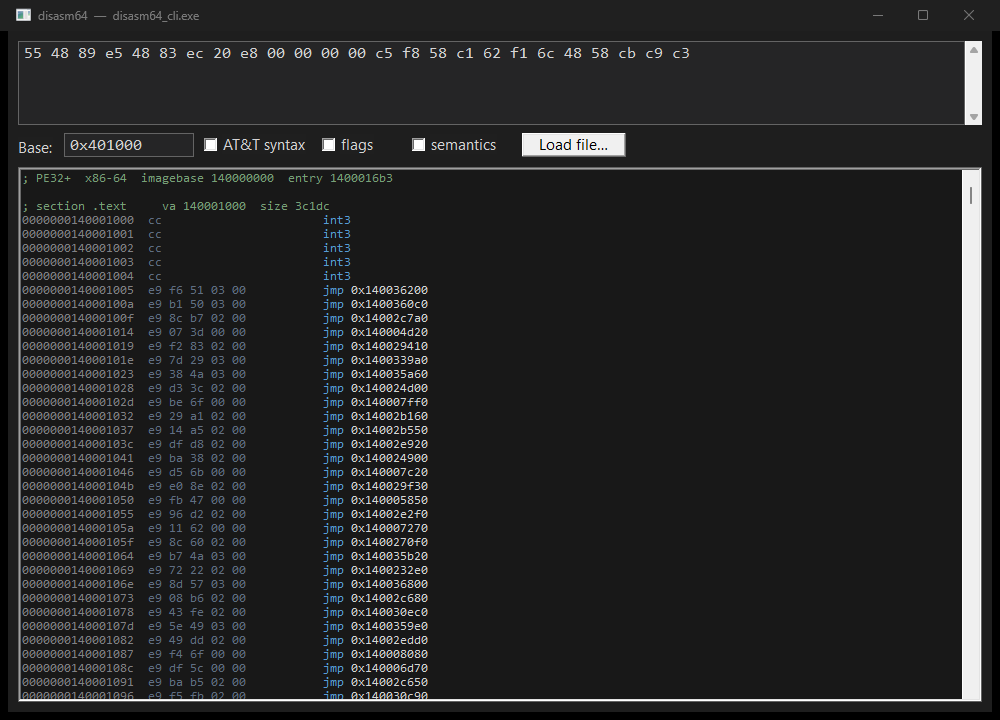
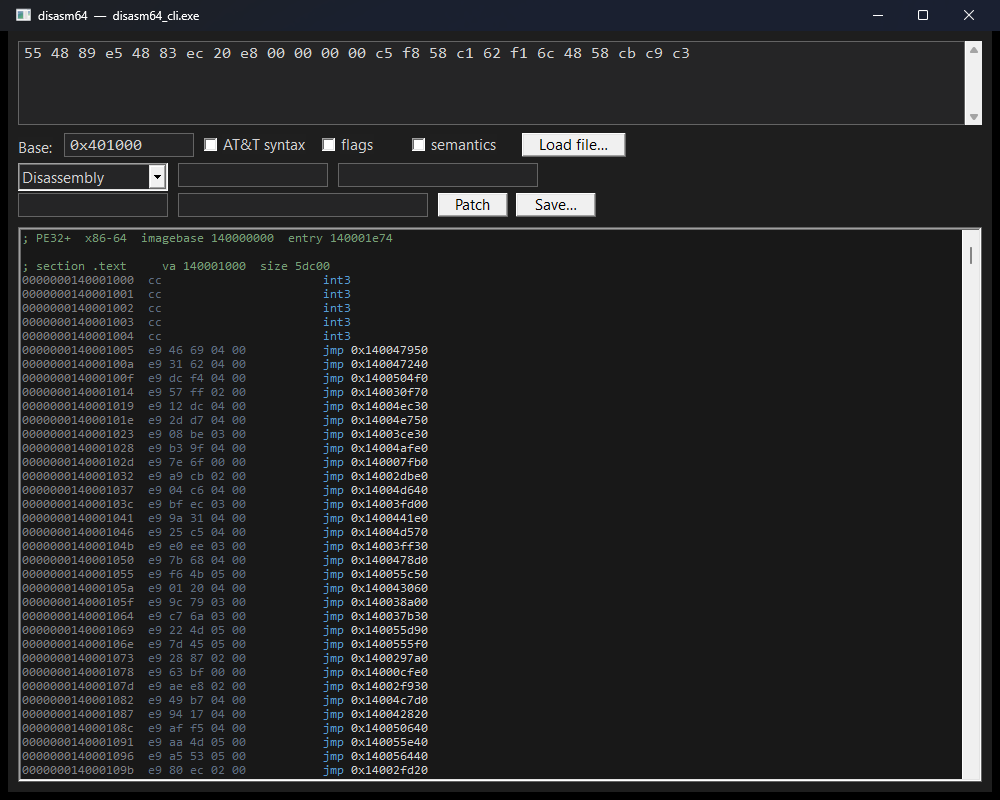
patch: overwrite bytes at a VA and save the modified file (GUI + CLI)
applyPatch() writes bytes at a virtual address in the loaded image; the GUI
adds a patch-VA / hex-bytes pair with Patch and Save... buttons, the CLI adds
--patch VA:BYTES and --save out. test_image covers the patch path; verified
end-to-end (patch an entry to int3, save, reload, re-disassemble).

diff --git a/gui/disasm64_gui.cpp b/gui/disasm64_gui.cpp
@@ -26,10 +26,12 @@ using namespace disasm64;
 
 namespace {
 
-enum { ID_HEX = 101, ID_BASE, ID_ATT, ID_FLAGS, ID_SEM, ID_OUT, ID_LOAD, ID_VIEW, ID_GOTO, ID_FIND };
+enum { ID_HEX = 101, ID_BASE, ID_ATT, ID_FLAGS, ID_SEM, ID_OUT, ID_LOAD, ID_VIEW, ID_GOTO, ID_FIND,
+       ID_PATCHVA, ID_PATCHBYTES, ID_PATCH, ID_SAVE };
 enum View { V_DISASM = 0, V_IMPORTS, V_EXPORTS, V_STRINGS, V_SECTIONS, V_CFG };
 
 HWND g_hex, g_base, g_att, g_flags, g_sem, g_out, g_load, g_view, g_goto, g_find;
+HWND g_patchva, g_patchbytes, g_patch, g_save;
 HFONT g_mono, g_ui;
 LoadedImage g_image;          // last loaded file
 bool g_fileMode = false;      // disassemble g_image instead of the hex box
@@ -322,6 +324,39 @@ void loadFile(HWND hwnd) {
     if (GetOpenFileNameW(&ofn)) loadPath(hwnd, path);
 }
 
+void doPatch() {
+    if (!g_fileMode) return;
+    uint64_t va = wcstoull(getText(g_patchva).c_str(), nullptr, 16);
+    std::vector<uint8_t> b;
+    int hi = -1;
+    for (wchar_t c : getText(g_patchbytes)) {
+        int v = hexv((int)c);
+        if (v < 0) { hi = -1; continue; }
+        if (hi < 0) hi = v; else { b.push_back(uint8_t(hi * 16 + v)); hi = -1; }
+    }
+    if (b.empty()) return;
+    if (applyPatch(g_image, va, b.data(), b.size())) refresh();
+    else MessageBeep(MB_ICONWARNING);
+}
+
+void doSave(HWND hwnd) {
+    if (g_image.file.empty()) return;
+    wchar_t path[MAX_PATH] = {};
+    OPENFILENAMEW ofn = {};
+    ofn.lStructSize = sizeof ofn;
+    ofn.hwndOwner = hwnd;
+    ofn.lpstrFilter = L"All files\0*.*\0";
+    ofn.lpstrFile = path;
+    ofn.nMaxFile = MAX_PATH;
+    ofn.Flags = OFN_OVERWRITEPROMPT;
+    if (!GetSaveFileNameW(&ofn)) return;
+    HANDLE h = CreateFileW(path, GENERIC_WRITE, 0, nullptr, CREATE_ALWAYS, FILE_ATTRIBUTE_NORMAL, nullptr);
+    if (h == INVALID_HANDLE_VALUE) return;
+    DWORD wr = 0;
+    WriteFile(h, g_image.file.data(), DWORD(g_image.file.size()), &wr, nullptr);
+    CloseHandle(h);
+}
+
 HWND mk(const wchar_t* cls, const wchar_t* text, DWORD style, HWND parent, int id, HFONT font) {
     HWND h = CreateWindowExW(0, cls, text, WS_CHILD | WS_VISIBLE | style, 0, 0, 0, 0,
                              parent, (HMENU)(INT_PTR)id, GetModuleHandleW(nullptr), nullptr);
@@ -345,7 +380,12 @@ void layout(HWND hwnd) {
     MoveWindow(g_view, x3, y3, 150, 160, TRUE); x3 += 160;
     MoveWindow(g_goto, x3, y3, 150, ctlH, TRUE); x3 += 160;
     MoveWindow(g_find, x3, y3, 200, ctlH, TRUE);
-    int outY = y3 + ctlH + 10;
+    int y4 = y3 + ctlH + 6, x4 = pad;
+    MoveWindow(g_patchva, x4, y4, 150, ctlH, TRUE); x4 += 160;
+    MoveWindow(g_patchbytes, x4, y4, 250, ctlH, TRUE); x4 += 260;
+    MoveWindow(g_patch, x4, y4, 70, ctlH, TRUE); x4 += 78;
+    MoveWindow(g_save, x4, y4, 80, ctlH, TRUE);
+    int outY = y4 + ctlH + 10;
     MoveWindow(g_out, pad, outY, W - 2 * pad, H - outY - pad, TRUE);
 }
 
@@ -374,6 +414,12 @@ LRESULT CALLBACK WndProc(HWND hwnd, UINT msg, WPARAM wp, LPARAM lp) {
             g_find  = mk(L"EDIT", L"", ES_AUTOHSCROLL | WS_BORDER, hwnd, ID_FIND, g_mono);
             SendMessageW(g_goto, EM_SETCUEBANNER, TRUE, (LPARAM)L"goto va");
             SendMessageW(g_find, EM_SETCUEBANNER, TRUE, (LPARAM)L"find");
+            g_patchva    = mk(L"EDIT", L"", ES_AUTOHSCROLL | WS_BORDER, hwnd, ID_PATCHVA, g_mono);
+            g_patchbytes = mk(L"EDIT", L"", ES_AUTOHSCROLL | WS_BORDER, hwnd, ID_PATCHBYTES, g_mono);
+            g_patch      = mk(L"BUTTON", L"Patch", BS_PUSHBUTTON, hwnd, ID_PATCH, g_ui);
+            g_save       = mk(L"BUTTON", L"Save\x2026", BS_PUSHBUTTON, hwnd, ID_SAVE, g_ui);
+            SendMessageW(g_patchva, EM_SETCUEBANNER, TRUE, (LPARAM)L"patch va");
+            SendMessageW(g_patchbytes, EM_SETCUEBANNER, TRUE, (LPARAM)L"hex bytes");
             g_out   = mk(MSFTEDIT_CLASS, L"", ES_MULTILINE | ES_READONLY | ES_AUTOVSCROLL | WS_VSCROLL | WS_BORDER, hwnd, ID_OUT, g_mono);
             SendMessageW(g_out, EM_SETBKGNDCOLOR, 0, (LPARAM)C_OUTBG);
             SendMessageW(g_out, EM_EXLIMITTEXT, 0, 64 << 20);
@@ -397,6 +443,8 @@ LRESULT CALLBACK WndProc(HWND hwnd, UINT msg, WPARAM wp, LPARAM lp) {
             else if (LOWORD(wp) == ID_VIEW && HIWORD(wp) == CBN_SELCHANGE) refresh();
             else if (LOWORD(wp) == ID_GOTO && HIWORD(wp) == EN_CHANGE) gotoAddr();
             else if (LOWORD(wp) == ID_FIND && HIWORD(wp) == EN_CHANGE) findOut(getText(g_find), 0);
+            else if (LOWORD(wp) == ID_PATCH && HIWORD(wp) == BN_CLICKED) doPatch();
+            else if (LOWORD(wp) == ID_SAVE && HIWORD(wp) == BN_CLICKED) doSave(hwnd);
             return 0;
         case WM_CTLCOLOREDIT: {
             HDC dc = (HDC)wp; SetTextColor(dc, C_TEXT); SetBkColor(dc, C_INPUT);
@@ -437,7 +485,7 @@ int WINAPI wWinMain(HINSTANCE hInst, HINSTANCE, LPWSTR lpCmdLine, int nShow) {
     RegisterClassExW(&wc);
 
     HWND hwnd = CreateWindowExW(0, wc.lpszClassName, L"disasm64",
-                                WS_OVERLAPPEDWINDOW, CW_USEDEFAULT, CW_USEDEFAULT, 1000, 720,
+                                WS_OVERLAPPEDWINDOW, CW_USEDEFAULT, CW_USEDEFAULT, 1000, 800,
                                 nullptr, nullptr, hInst, nullptr);
     ShowWindow(hwnd, nShow);
     UpdateWindow(hwnd);

diff --git a/tools/disasm_cli.cpp b/tools/disasm_cli.cpp
@@ -56,11 +56,15 @@ int main(int argc, char** argv) {
     bool doImports = false, doExports = false, doStrings = false, doCfg = false;
     const char* filePath = nullptr;
     const char* pattern = nullptr;
+    const char* patchSpec = nullptr;
+    const char* savePath = nullptr;
     std::vector<uint8_t> code;
     for (int i = 1; i < argc; ++i) {
         if (!std::strcmp(argv[i], "--base") && i + 1 < argc) { base = std::strtoull(argv[++i], nullptr, 0); continue; }
         if (!std::strcmp(argv[i], "--file") && i + 1 < argc) { filePath = argv[++i]; continue; }
         if (!std::strcmp(argv[i], "--pattern") && i + 1 < argc) { pattern = argv[++i]; continue; }
+        if (!std::strcmp(argv[i], "--patch") && i + 1 < argc) { patchSpec = argv[++i]; continue; }
+        if (!std::strcmp(argv[i], "--save") && i + 1 < argc) { savePath = argv[++i]; continue; }
         if (!std::strcmp(argv[i], "--imports")) { doImports = true; continue; }
         if (!std::strcmp(argv[i], "--exports")) { doExports = true; continue; }
         if (!std::strcmp(argv[i], "--strings")) { doStrings = true; continue; }
@@ -79,6 +83,21 @@ int main(int argc, char** argv) {
         if (!data.empty()) { size_t got = std::fread(data.data(), 1, data.size(), f); data.resize(got); }
         std::fclose(f);
         LoadedImage im = loadImage(std::move(data));
+        if (patchSpec) {   // "va:hexbytes"
+            uint64_t va = std::strtoull(patchSpec, nullptr, 16);
+            const char* hx = std::strchr(patchSpec, ':');
+            std::vector<uint8_t> pb;
+            if (hx) { int hi = -1; for (const char* p = hx + 1; *p; ++p) {
+                int v = (*p >= '0' && *p <= '9') ? *p - '0' : (*p | 0x20) >= 'a' && (*p | 0x20) <= 'f' ? (*p | 0x20) - 'a' + 10 : -1;
+                if (v < 0) { hi = -1; continue; } if (hi < 0) hi = v; else { pb.push_back(uint8_t(hi * 16 + v)); hi = -1; } } }
+            std::printf("; patch %llx (%zu bytes): %s\n", (unsigned long long)va, pb.size(),
+                        applyPatch(im, va, pb.data(), pb.size()) ? "ok" : "out of range");
+        }
+        if (savePath) {
+            FILE* o = std::fopen(savePath, "wb");
+            if (o) { std::fwrite(im.file.data(), 1, im.file.size(), o); std::fclose(o); std::printf("; saved %s\n", savePath); }
+            return 0;
+        }
         std::printf("; %s  %s  imagebase %llx  entry %llx\n", im.format.c_str(),
                     im.machine.empty() ? "?" : im.machine.c_str(),
                     (unsigned long long)im.imageBase, (unsigned long long)im.entry);

diff --git a/single_include/disasm64.h b/single_include/disasm64.h
@@ -293,6 +293,10 @@ std::vector<FoundString> findStrings(const LoadedImage& im, size_t minLen = 4);
 // e.g. "48 8B ?? C0". Returns every match's address.
 std::vector<Match> patternSearch(const LoadedImage& im, const std::string& pattern);
 
+// Overwrite bytes at a virtual address in the image's file buffer (a raw patch). Returns
+// false if the address or range is not backed by file data. Save im.file to persist it.
+bool applyPatch(LoadedImage& im, uint64_t va, const uint8_t* bytes, size_t n);
+
 } // namespace disasm64
 #include <cstdint>
 #include <cstddef>
@@ -2663,6 +2667,13 @@ std::vector<Match> patternSearch(const LoadedImage& im, const std::string& patte
         }
     }
     return out;
+}
+
+bool applyPatch(LoadedImage& im, uint64_t va, const uint8_t* bytes, size_t n) {
+    size_t off = vaToOffset(im, va);
+    if (off == SIZE_MAX || off + n > im.file.size()) return false;
+    std::memcpy(im.file.data() + off, bytes, n);
+    return true;
 }
 
 } // namespace disasm64

diff --git a/include/disasm64/image.h b/include/disasm64/image.h
@@ -41,4 +41,8 @@ std::vector<FoundString> findStrings(const LoadedImage& im, size_t minLen = 4);
 // e.g. "48 8B ?? C0". Returns every match's address.
 std::vector<Match> patternSearch(const LoadedImage& im, const std::string& pattern);
 
+// Overwrite bytes at a virtual address in the image's file buffer (a raw patch). Returns
+// false if the address or range is not backed by file data. Save im.file to persist it.
+bool applyPatch(LoadedImage& im, uint64_t va, const uint8_t* bytes, size_t n);
+
 } // namespace disasm64

diff --git a/tests/test_image.cpp b/tests/test_image.cpp
@@ -33,4 +33,11 @@ TEST_MAIN({
 
     // no match
     CHECK_EQ(int(patternSearch(im, "de ad be ef").size()), 0);
+
+    // patching writes through to the file buffer
+    uint8_t nop[] = {0x90, 0x90, 0x90};
+    CHECK(applyPatch(im, 0x100C, nop, 3));                 // over the "48 8B 05" pattern
+    CHECK_EQ(int(im.file[12]), 0x90);
+    CHECK_EQ(int(im.file[14]), 0x90);
+    CHECK(!applyPatch(im, 0x9999, nop, 3));                // out of range
 })

diff --git a/src/image.cpp b/src/image.cpp
@@ -170,4 +170,11 @@ std::vector<Match> patternSearch(const LoadedImage& im, const std::string& patte
     return out;
 }
 
+bool applyPatch(LoadedImage& im, uint64_t va, const uint8_t* bytes, size_t n) {
+    size_t off = vaToOffset(im, va);
+    if (off == SIZE_MAX || off + n > im.file.size()) return false;
+    std::memcpy(im.file.data() + off, bytes, n);
+    return true;
+}
+
 } // namespace disasm64

diff --git a/README.md b/README.md
@@ -34,14 +34,22 @@ $ disasm64 --base 0x401000 66 66 90 48 8b 80 05 00 00 00 eb 01 48 90
 
 ## Desktop GUI
 
-A small native front-end (`gui/`, Win32, dark theme, no dependencies) disassembles as you
-type, with syntax colouring and the same quirk / anti-disassembly annotations. **Drop a
-`.exe`/`.dll`/`.sys` on the window** (or use *Load file…*) and it parses the PE, finds the
-executable sections and disassembles them at their real virtual addresses — image base,
-entry point and all. Grab the prebuilt `disasm64_gui.exe` from the
+A small native front-end (`gui/`, Win32, dark theme, no dependencies) is a real little
+disassembler workbench:
+
+- **Drop a `.exe`/`.dll`/`.sys`/ELF on the window** (or *Load file…*) — it parses the
+  headers, finds the executable sections and disassembles them at their real virtual
+  addresses, image base and entry point included.
+- A **view switch** flips the pane between the disassembly and the **import table, export
+  table, strings, sections, and the recovered CFG**.
+- **goto-VA** scrolls to an address, **find** searches the listing.
+- **patch** bytes at an address and **Save…** writes the modified file back out.
+
+Grab the prebuilt `disasm64_gui.exe` from the
 [latest release](https://github.com/goldzik1/disasm64/releases/latest) and just run it, or
-build it with `cmake --build build --target disasm64_gui`. The CLI does the same headless:
-`disasm64 --file program.exe --sem`.
+build it with `cmake --build build --target disasm64_gui`. The CLI does it all headless too:
+`disasm64 --file program.exe --sem` / `--imports` / `--strings` / `--cfg` /
+`--pattern "48 8B ?? C0"` / `--patch VA:BYTES --save out.exe`.
 
 ![disasm64 GUI](gui/screenshot.png)
 
